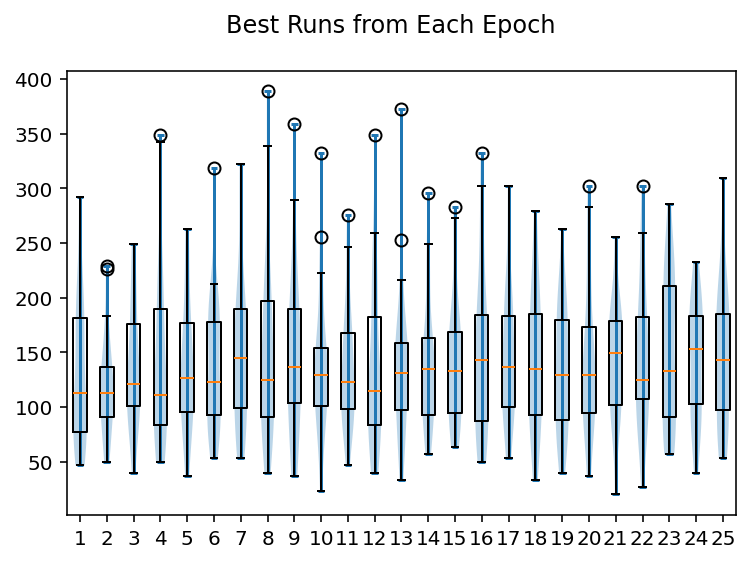
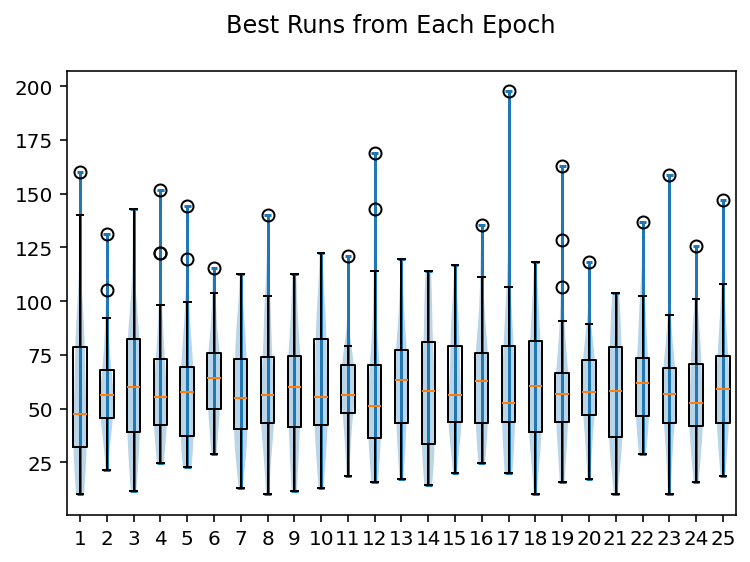
Changed parsimonly pressure from log10 controller size to ln controller size so that abnormally high scores would not come from small controllers which manage to succeed

diff --git a/GPSearch/players.py b/GPSearch/players.py
@@ -78,7 +78,7 @@ class Player:
         self._score = self._score + score
         
     def final_score(self):
-        self._score = self._score / np.log10(self._controller.size())
+        self._score = self._score / np.log(self._controller.size())
         
     def load_world(self,world):
         self._world = world
@@ -156,7 +156,7 @@ class PacMan(Player):
     def win_score(self,t,tmult):
         #PacMan win score = (total score * 2-(time/total time)) / parsimony pressure (ln controller size)
         self._score = self._score * (2-(t/tmult))
-        self._score = self._score / np.log10(self._controller.size())
+        self._score = self._score / np.log(self._controller.size())
         
     def reset(self):
         self._xpos = 0

diff --git a/GPSearch/evolution.py b/GPSearch/evolution.py
@@ -10,6 +10,7 @@ from play import Game
 import multiprocessing as mp
 import matplotlib.pyplot as plt
 import selection
+import shutil
 import numpy as np
 import mutators
 import random
@@ -133,6 +134,8 @@ def run(nworlds,popsize,mdepth,lsize,tprob,xdim,ydim,wden,ppill,rnginit,nghosts,
     for i in range(epochs):
         run = []
         print('Epoch: ' + str(i+1))
+        if os.path.exists('worldfiles/epoch'+str(i)+'/') and os.path.isdir('worldfiles/epoch'+str(i)+'/'):
+            shutil.rmtree('worldfiles/epoch'+str(i)+'/')
         run_epoch(i,worlds,popsize, pacmen, ghosts,nghosts,fprob,gtime)
         bestp = 0
         bestscore = 0
